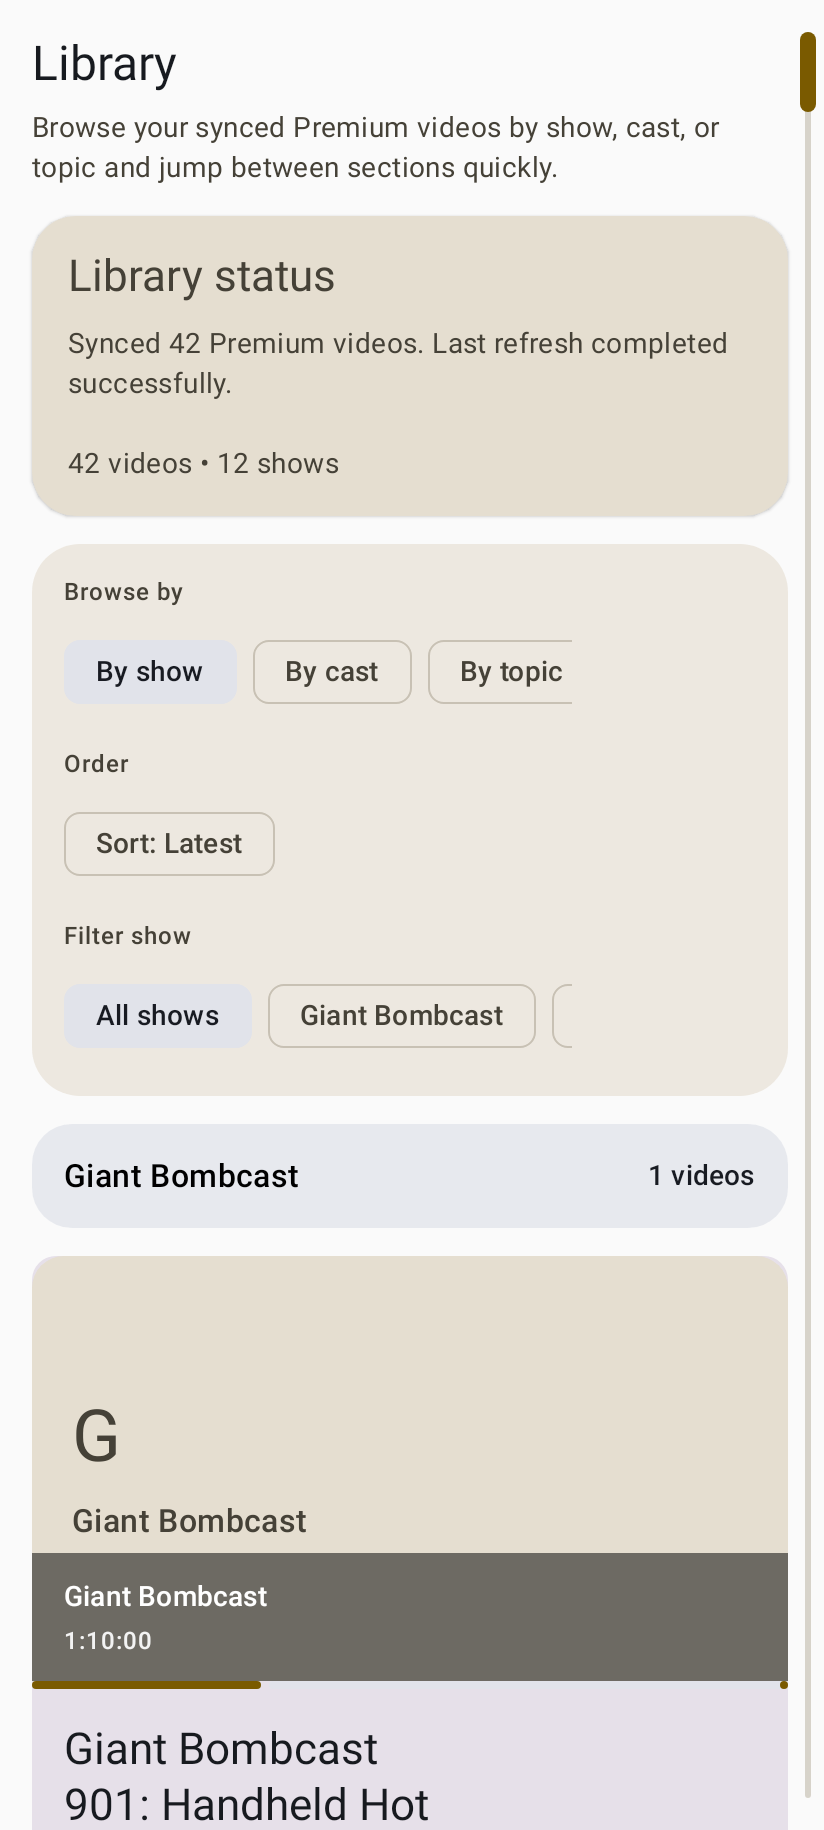
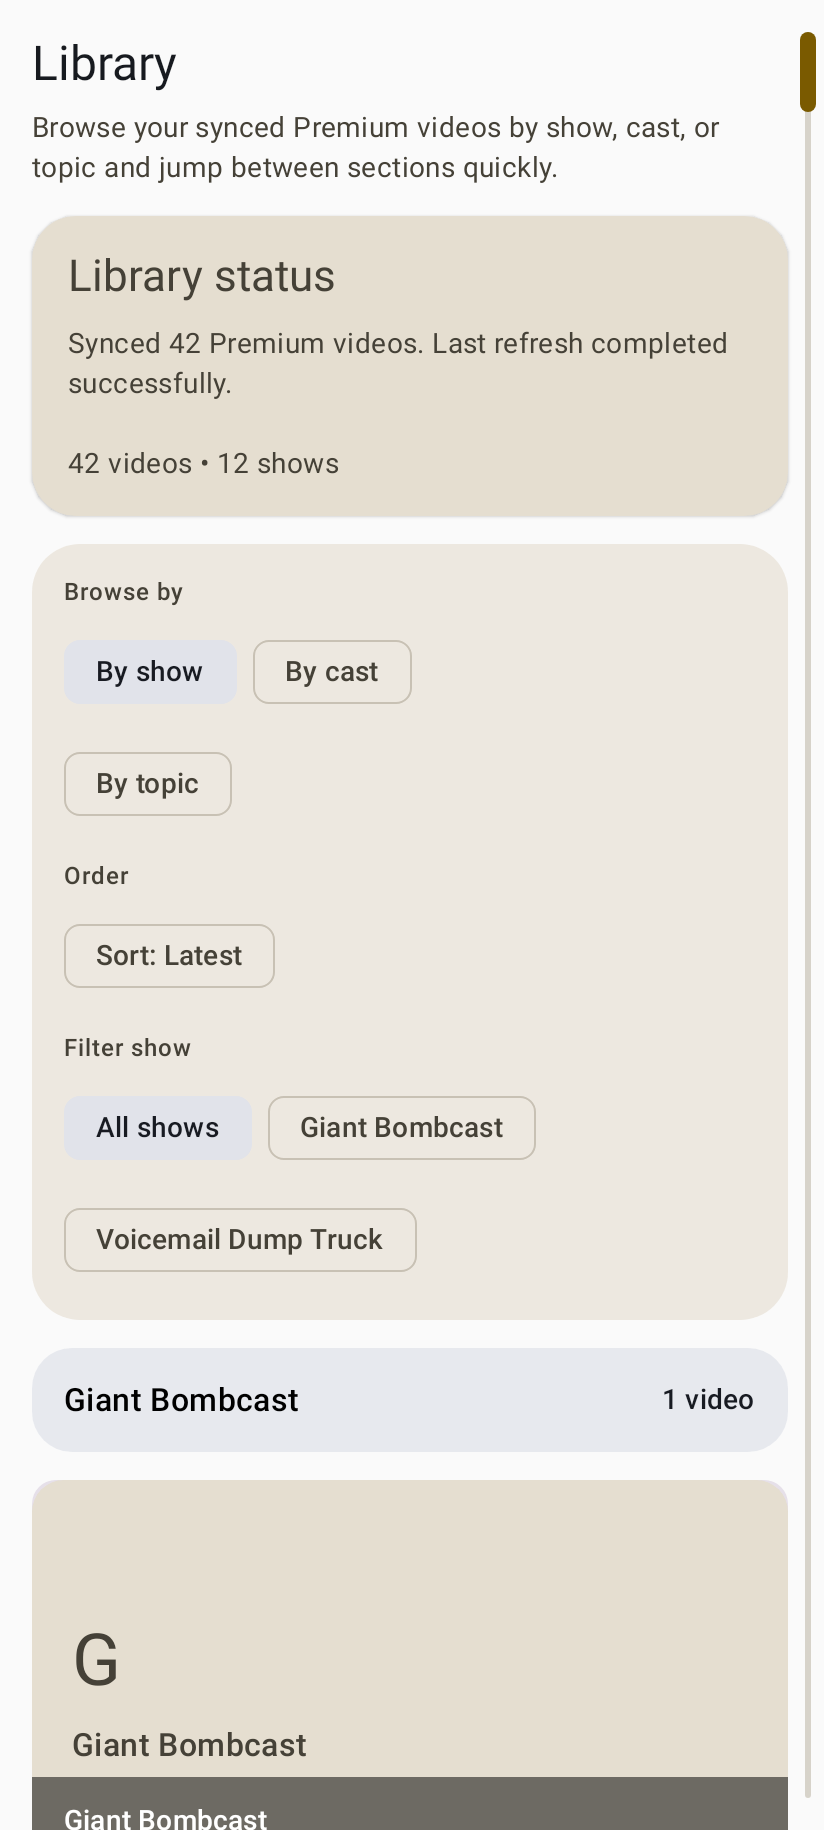
Refine library filter layout

diff --git a/feature/library/src/main/java/com/looktube/feature/library/LibraryRoute.kt b/feature/library/src/main/java/com/looktube/feature/library/LibraryRoute.kt
@@ -7,11 +7,12 @@ import androidx.compose.foundation.background
 import androidx.compose.foundation.clickable
 import androidx.compose.foundation.gestures.detectVerticalDragGestures
 import androidx.compose.foundation.gestures.scrollBy
-import androidx.compose.foundation.horizontalScroll
 import androidx.compose.foundation.layout.Arrangement
 import androidx.compose.foundation.layout.Box
 import androidx.compose.foundation.layout.BoxWithConstraints
 import androidx.compose.foundation.layout.Column
+import androidx.compose.foundation.layout.ExperimentalLayoutApi
+import androidx.compose.foundation.layout.FlowRow
 import androidx.compose.foundation.layout.PaddingValues
 import androidx.compose.foundation.layout.Row
 import androidx.compose.foundation.layout.RowScope
@@ -305,6 +306,7 @@ fun LibraryRoute(
 }
 
 @Composable
+@OptIn(ExperimentalLayoutApi::class)
 private fun BrowseControlChipRow(
     contentEndPadding: Dp,
     content: @Composable RowScope.() -> Unit,
@@ -314,11 +316,10 @@ private fun BrowseControlChipRow(
             .fillMaxWidth()
             .padding(end = contentEndPadding),
     ) {
-        Row(
-            modifier = Modifier
-                .fillMaxWidth()
-                .horizontalScroll(rememberScrollState()),
+        FlowRow(
+            modifier = Modifier.fillMaxWidth(),
             horizontalArrangement = Arrangement.spacedBy(8.dp),
+            verticalArrangement = Arrangement.spacedBy(8.dp),
             content = content,
         )
     }
@@ -560,7 +561,7 @@ private fun SeriesSectionHeader(section: SeriesSection) {
             )
             Spacer(modifier = Modifier.width(12.dp))
             Text(
-                text = "${section.videos.size} videos",
+                text = "${section.videos.size} ${if (section.videos.size == 1) "video" else "videos"}",
                 style = MaterialTheme.typography.labelLarge,
                 color = MaterialTheme.colorScheme.onSecondaryContainer,
             )

diff --git a/feature/player/src/main/java/com/looktube/feature/player/PlayerRoute.kt b/feature/player/src/main/java/com/looktube/feature/player/PlayerRoute.kt
@@ -137,11 +137,11 @@ fun PlayerRoute(
                     appendLine("Feed category: ${selectedVideo.feedCategory}")
                     appendLine("Premium: ${if (selectedVideo.isPremium) "Yes" else "No"}")
                     if (playbackProgress != null) {
-                        appendLine("Resume at ${playbackProgress.positionSeconds}s of ${playbackProgress.durationSeconds}s.")
+                        appendLine("Resume at ${formatPlaybackTime(playbackProgress.positionSeconds)} of ${formatPlaybackTime(playbackProgress.durationSeconds)}.")
                     } else {
                         appendLine("No stored resume point yet.")
                     }
-                    append("Double-tap the video or use the corner button to toggle fullscreen.")
+                    append("Double-tap the video or use the fullscreen button to toggle fullscreen.")
                 },
             )
         }
